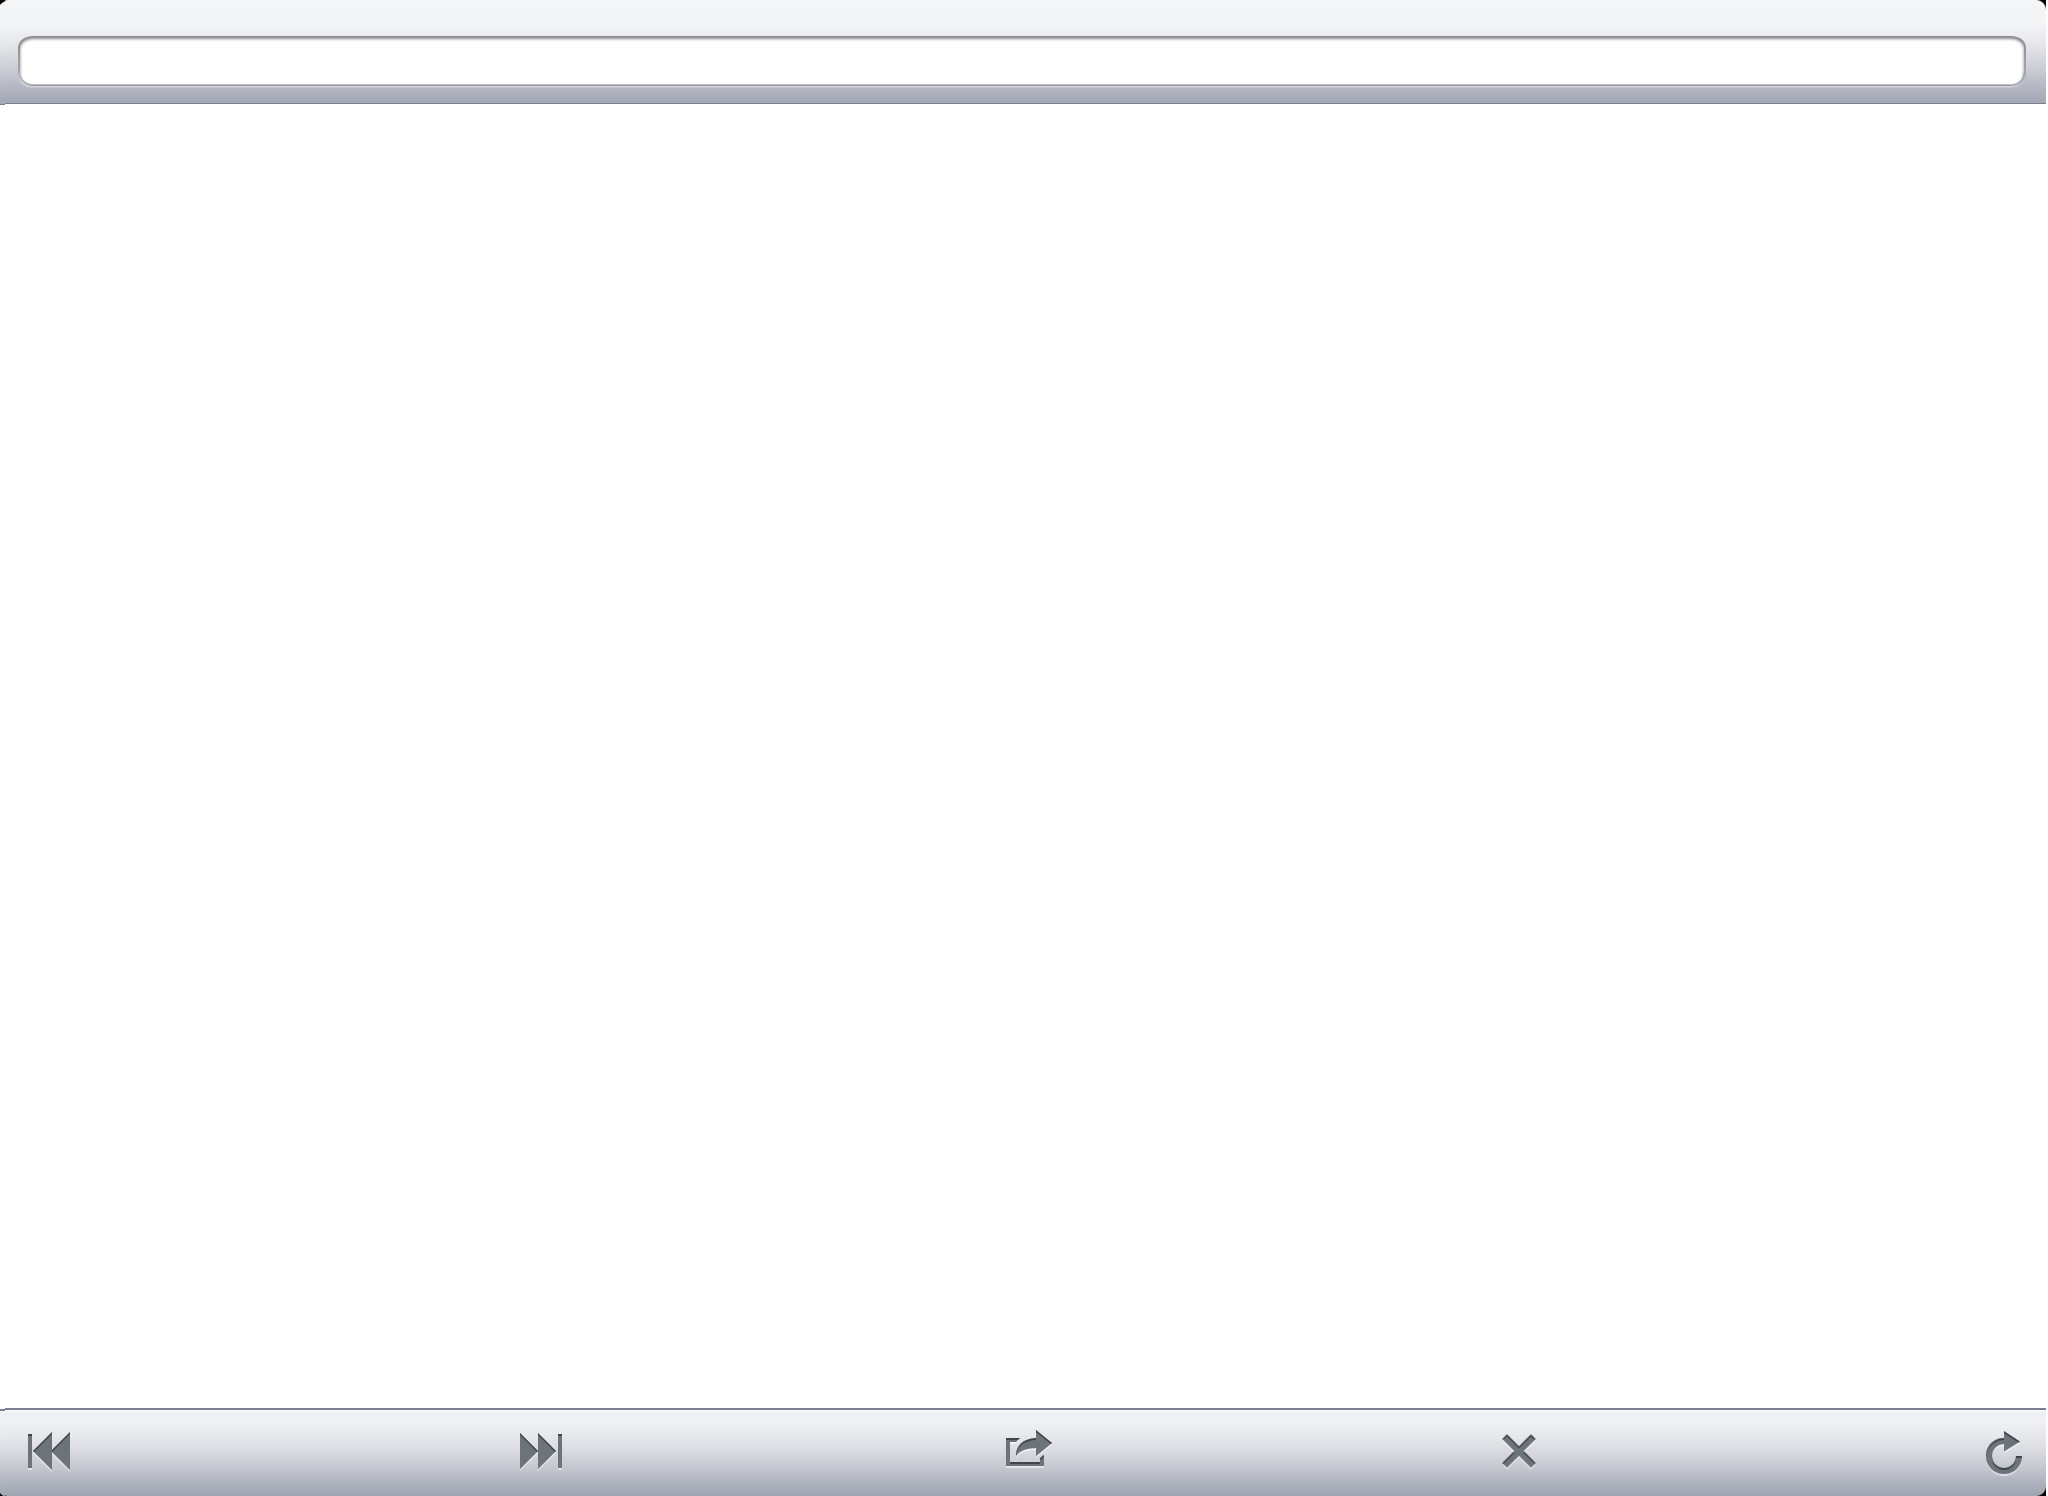
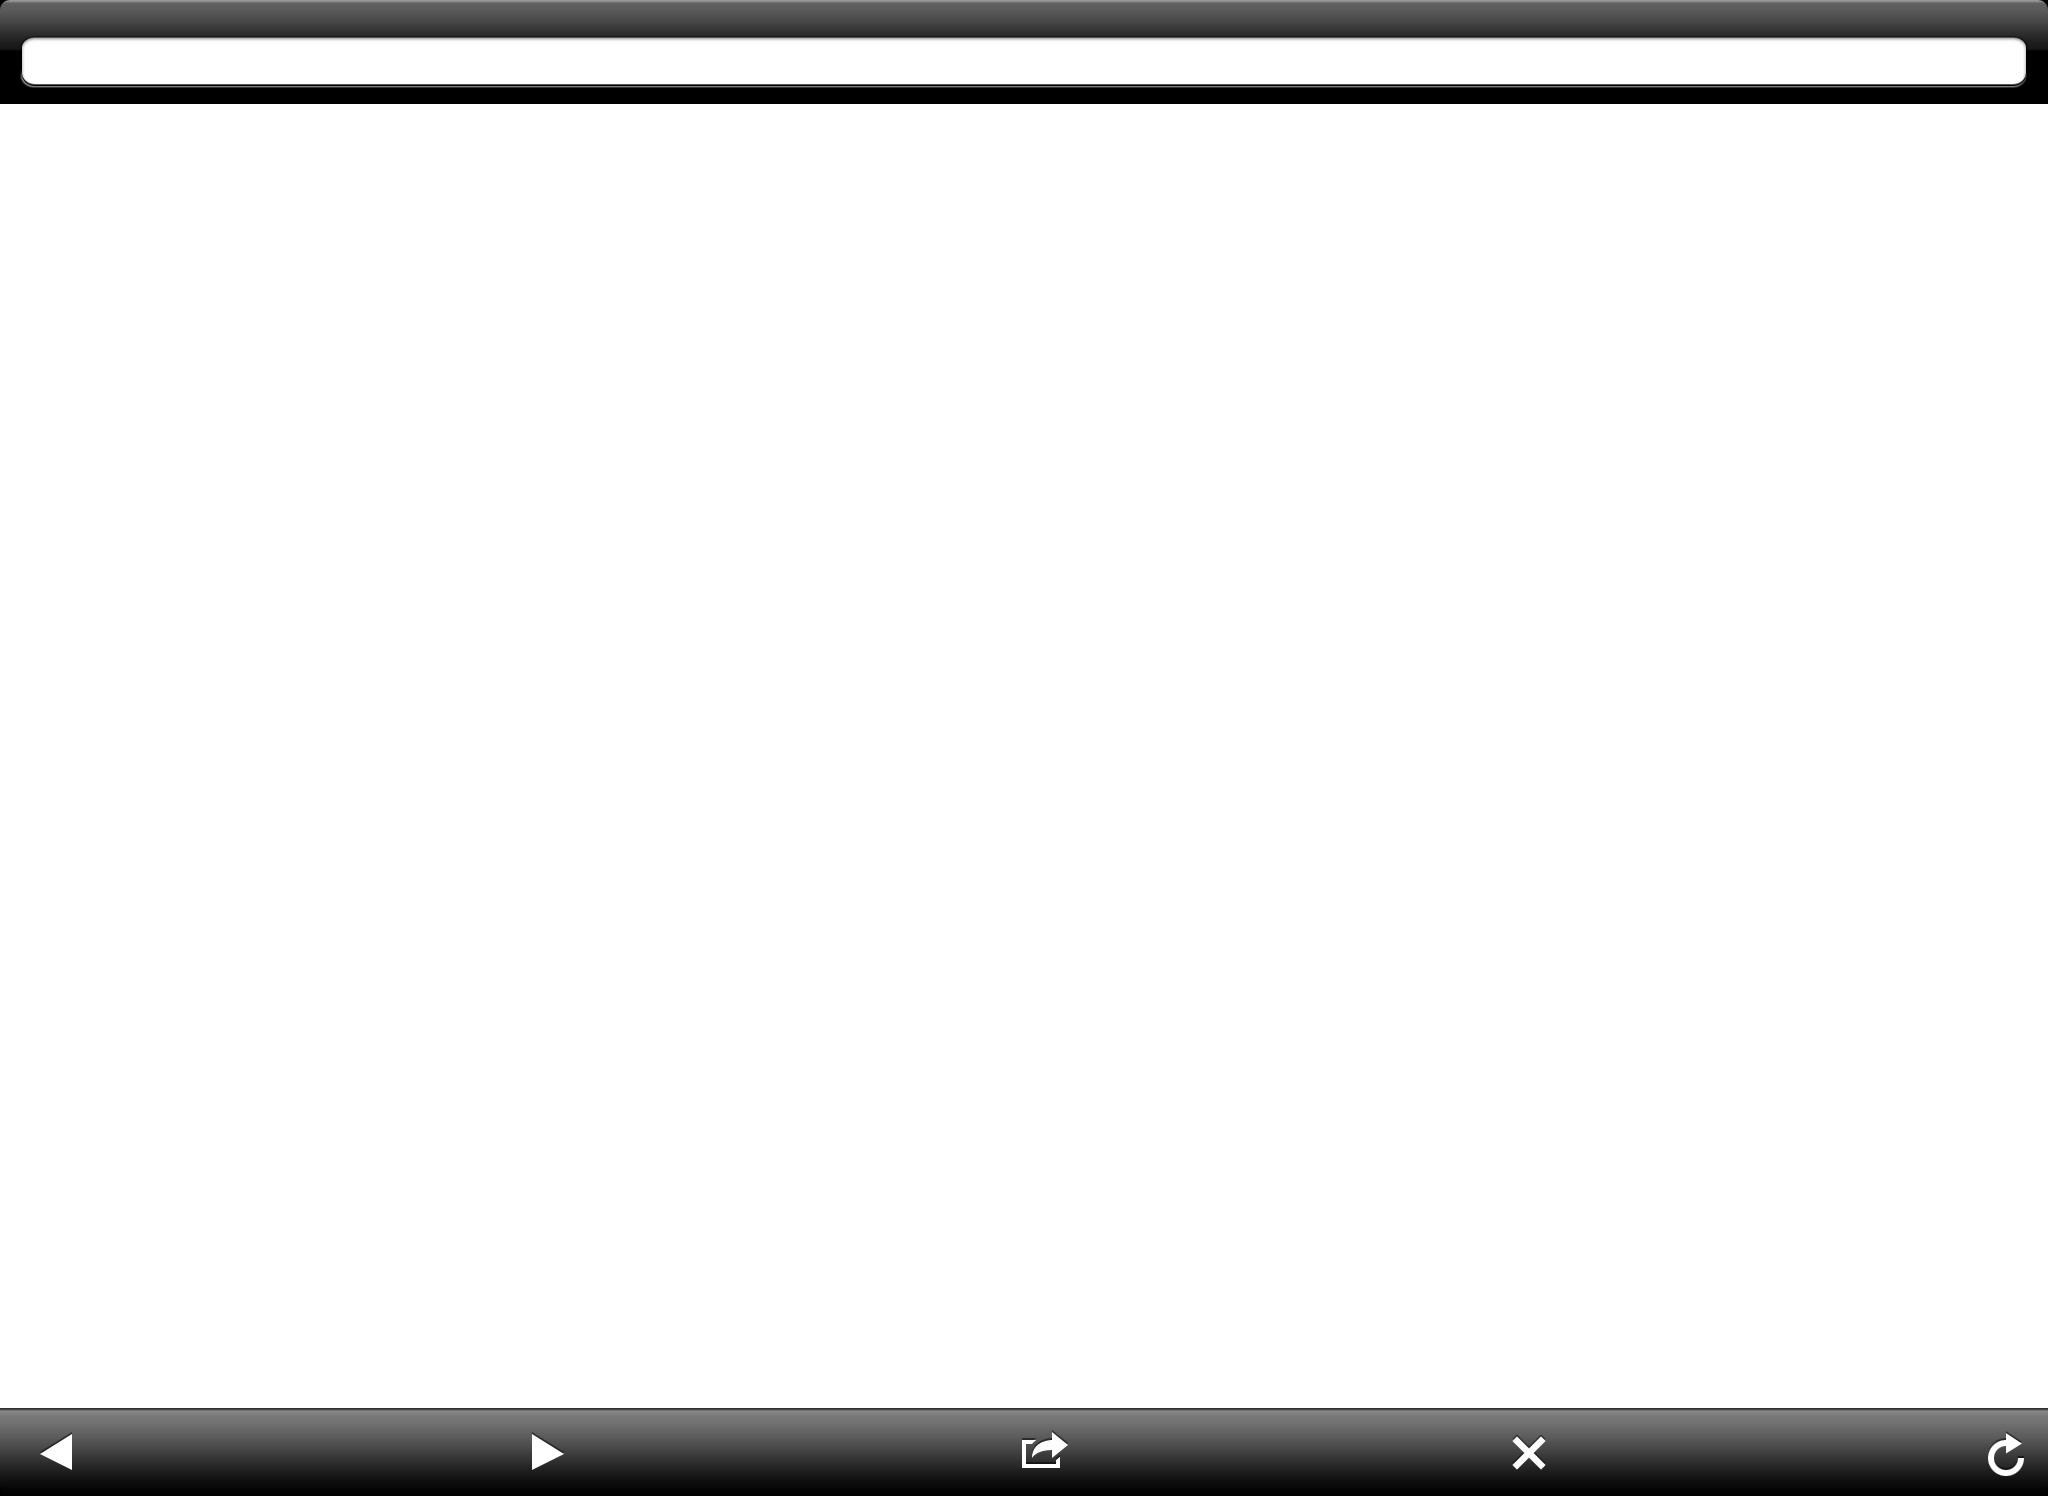
switch to black toolbar and vector back/forward buttons instead of fast-forward/back button

Changed region(s): [[0.0, 0.9225, 1.0, 1.0], [0.0, 0.0, 1.0, 0.0922]]

diff --git a/OnionBrowser/OnionBrowser/WebViewController.m b/OnionBrowser/OnionBrowser/WebViewController.m
@@ -59,8 +59,8 @@ static const NSInteger kLoadingStatusTag = 1003;
     webViewFrame.size.height = webViewFrame.size.height - kToolBarHeight - kNavBarHeight;
     _myWebView = [[UIWebView alloc] initWithFrame:webViewFrame];
     _myWebView.backgroundColor = [UIColor whiteColor];
-    //_myWebView.scalesPageToFit = YES;
-    //_myWebView.contentScaleFactor = 3;
+    _myWebView.scalesPageToFit = YES;
+    _myWebView.contentScaleFactor = 3;
     _myWebView.autoresizingMask = (UIViewAutoresizingFlexibleWidth | UIViewAutoresizingFlexibleHeight);
     _myWebView.delegate = self;
     [self.view addSubview: _myWebView];
@@ -102,7 +102,7 @@ static const NSInteger kLoadingStatusTag = 1003;
     }
 
     _myWebView.delegate = self;
-    //_myWebView.scalesPageToFit = YES;
+    _myWebView.scalesPageToFit = YES;
     NSMutableURLRequest *req = [NSMutableURLRequest requestWithURL:navigationURL];
     [req setHTTPShouldUsePipelining:YES];
 
@@ -113,11 +113,62 @@ static const NSInteger kLoadingStatusTag = 1003;
 }
 
 
+- (UIImage *)makeBackButtonImage {
+    CGFloat scale = [[UIScreen mainScreen] scale];
+    CGColorSpaceRef colorSpace = CGColorSpaceCreateDeviceRGB();
+    CGContextRef context = CGBitmapContextCreate(nil,28*scale,28*scale,8,0,
+                                                 colorSpace,kCGImageAlphaPremultipliedLast);
+    CFRelease(colorSpace);
+    CGColorRef fillColor = [[UIColor blackColor] CGColor];
+    CGContextSetFillColor(context, CGColorGetComponents(fillColor));
+    
+    CGContextBeginPath(context);
+    CGContextMoveToPoint(context, 8.0f*scale, 12.0f*scale);
+    CGContextAddLineToPoint(context, 24.0f*scale, 4.0f*scale);
+    CGContextAddLineToPoint(context, 24.0f*scale, 22.0f*scale);
+    CGContextClosePath(context);
+    CGContextFillPath(context);
+    
+    // convert the context into a CGImageRef
+    CGImageRef theCGImage = CGBitmapContextCreateImage(context);
+    CGContextRelease(context);
+    UIImage *backImage = [[UIImage alloc] initWithCGImage:theCGImage
+                                                    scale:[[UIScreen mainScreen] scale]
+                                              orientation:UIImageOrientationUp];
+    CGImageRelease(theCGImage);
+    return backImage;
+}
+- (UIImage *)makeForwardButtonImage {
+    CGFloat scale = [[UIScreen mainScreen] scale];
+    CGColorSpaceRef colorSpace = CGColorSpaceCreateDeviceRGB();
+    CGContextRef context = CGBitmapContextCreate(nil,28*scale,28*scale,8,0,
+                                                 colorSpace,kCGImageAlphaPremultipliedLast);
+    CFRelease(colorSpace);
+    CGColorRef fillColor = [[UIColor blackColor] CGColor];
+    CGContextSetFillColor(context, CGColorGetComponents(fillColor));
+    
+    CGContextBeginPath(context);
+    CGContextMoveToPoint(context, 20.0f*scale, 12.0f*scale);
+    CGContextAddLineToPoint(context, 4.0f*scale, 4.0f*scale);
+    CGContextAddLineToPoint(context, 4.0f*scale, 22.0f*scale);
+    CGContextClosePath(context);
+    CGContextFillPath(context);
+    
+    // convert the context into a CGImageRef
+    CGImageRef theCGImage = CGBitmapContextCreateImage(context);
+    CGContextRelease(context);
+    UIImage *forwardImage = [[UIImage alloc] initWithCGImage:theCGImage
+                                                    scale:[[UIScreen mainScreen] scale]
+                                              orientation:UIImageOrientationUp];
+    CGImageRelease(theCGImage);
+    return forwardImage;
+}
+
 - (void)viewDidLoad {
     [super viewDidLoad];
 
     _toolbar = [[UIToolbar alloc] init];
-    //[_toolbar setTintColor:[UIColor blackColor]];
+    [_toolbar setTintColor:[UIColor blackColor]];
     _toolbar.frame = CGRectMake(0, self.view.frame.size.height - kToolBarHeight, self.view.frame.size.width, kToolBarHeight);
     _toolbar.autoresizingMask = UIViewAutoresizingFlexibleRightMargin | UIViewAutoresizingFlexibleTopMargin | UIViewAutoresizingFlexibleWidth;
     _toolbar.contentMode = UIViewContentModeBottom;
@@ -126,15 +177,15 @@ static const NSInteger kLoadingStatusTag = 1003;
                                initWithBarButtonSystemItem:UIBarButtonSystemItemFlexibleSpace
                                target:nil
                                action:nil];
-    
-    _backButton = [[UIBarButtonItem alloc]
-                    initWithBarButtonSystemItem:UIBarButtonSystemItemRewind
+        
+    _backButton = [[UIBarButtonItem alloc] initWithImage:[self makeBackButtonImage]
+                    style:UIBarButtonItemStylePlain
                     target:_myWebView
                     action:@selector(goBack)];
-    _forwardButton = [[UIBarButtonItem alloc]
-                      initWithBarButtonSystemItem:UIBarButtonSystemItemFastForward
-                      target:_myWebView
-                      action:@selector(goForward)];
+    _forwardButton = [[UIBarButtonItem alloc] initWithImage:[self makeForwardButtonImage]
+                    style:UIBarButtonItemStylePlain
+                    target:_myWebView
+                    action:@selector(goForward)];
     
     NSHTTPCookieAcceptPolicy policy = [[NSHTTPCookieStorage sharedHTTPCookieStorage] cookieAcceptPolicy];
     NSString *cookieStr;
@@ -200,8 +251,8 @@ static const NSInteger kLoadingStatusTag = 1003;
     label.font = [UIFont systemFontOfSize:12];
     label.textAlignment = UITextAlignmentCenter;
     
-    //[navBar setTintColor:[UIColor blackColor]];
-    //[label setTextColor:[UIColor whiteColor]];
+    [navBar setTintColor:[UIColor blackColor]];
+    [label setTextColor:[UIColor whiteColor]];
 
     [navBar addSubview:label];
     _pageTitleLabel = label;

diff --git a/OnionBrowser/OnionBrowser/WebViewController.h b/OnionBrowser/OnionBrowser/WebViewController.h
@@ -37,4 +37,6 @@
 - (void)loadAddress:(id)sender event:(UIEvent*)event;
 - (void)informError:(NSError*)error;
 
+- (UIImage *)makeBackButtonImage;
+- (UIImage *)makeForwardButtonImage;
 @end
